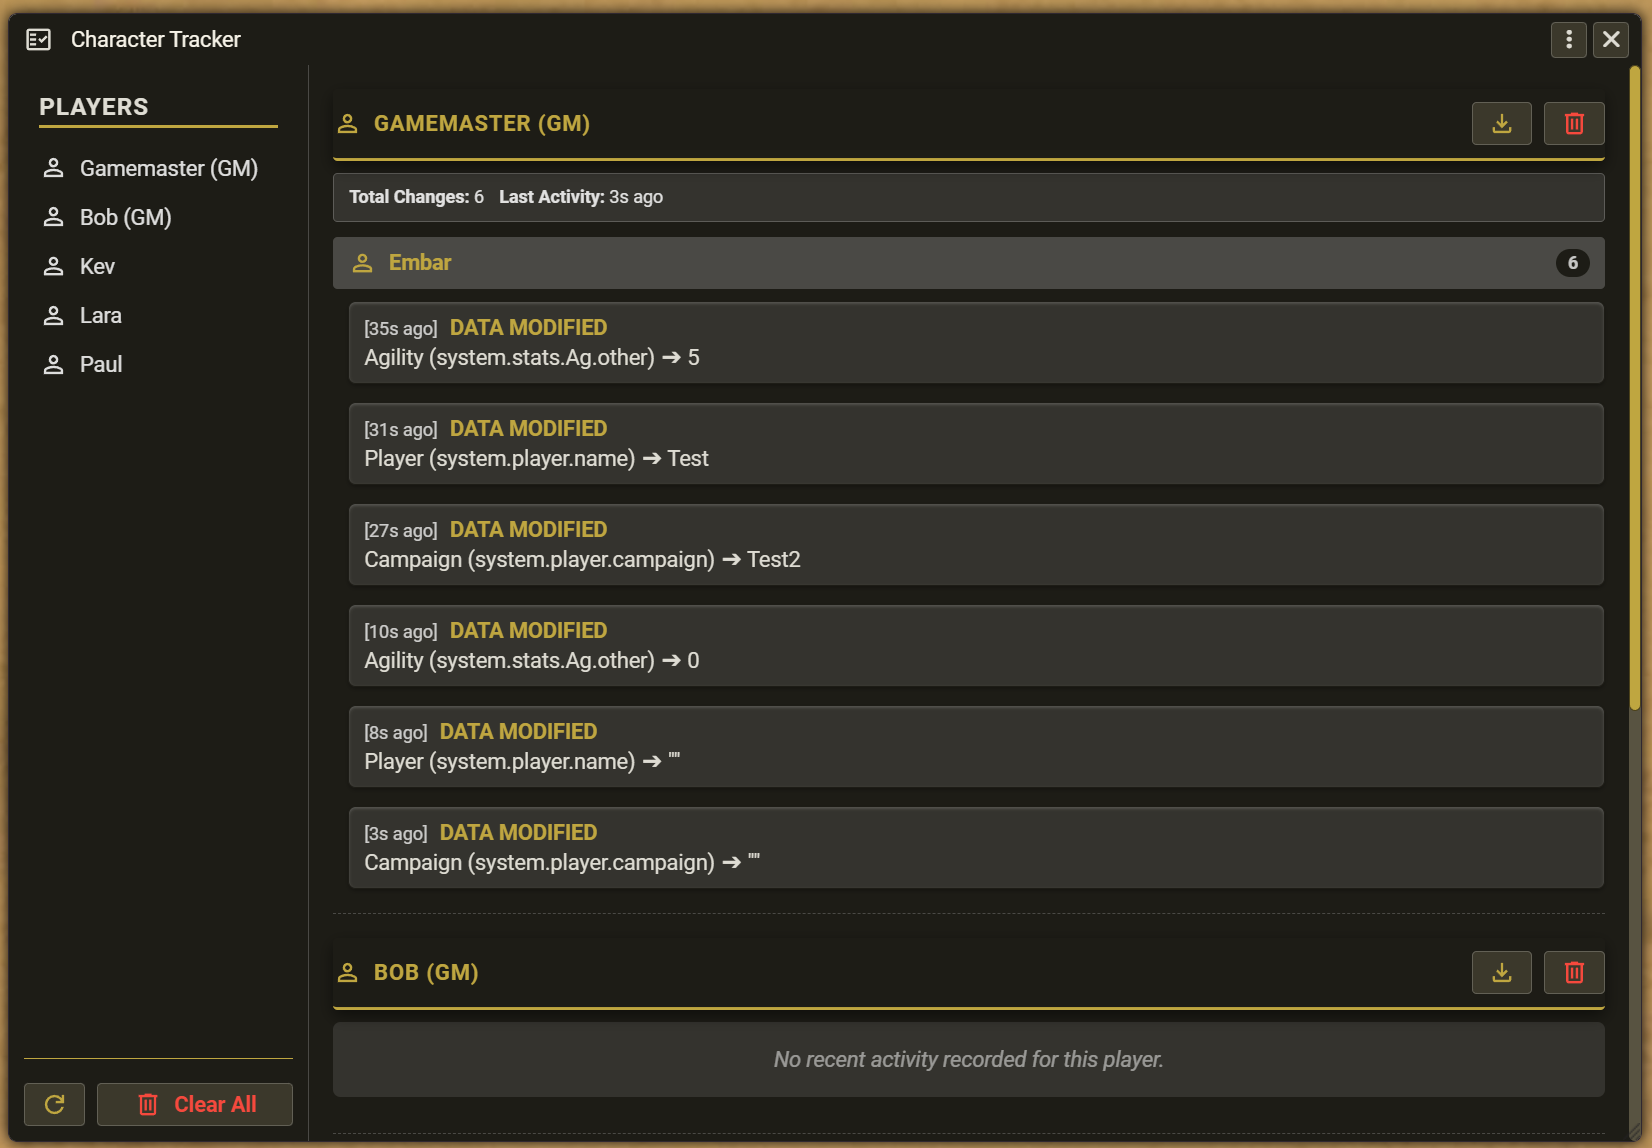
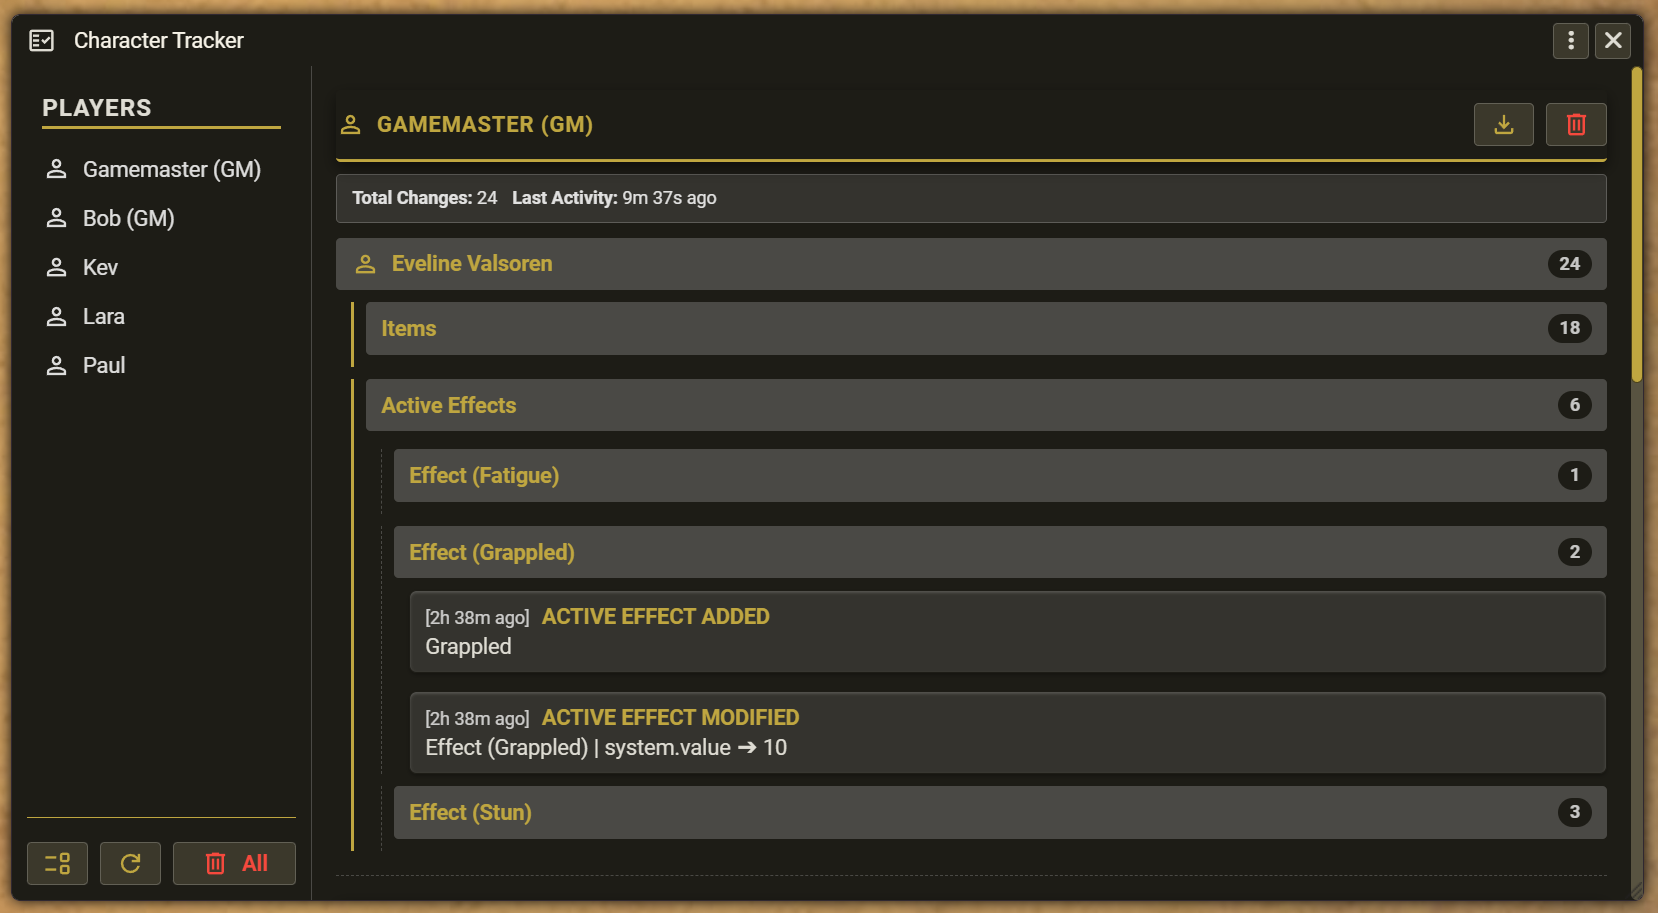
Improvement: add categorical grouping
Docs: update version and readme files

Changed region(s): [[0.0, 0.0, 1.0, 1.0]]

diff --git a/src/ui/AuditLogApp.js b/src/ui/AuditLogApp.js
@@ -10,6 +10,8 @@ import { SystemMapper } from "../systems/SystemMapper.js";
 const { ApplicationV2, HandlebarsApplicationMixin, DialogV2 } = foundry.applications.api;
 
 export class AuditLogApp extends HandlebarsApplicationMixin(ApplicationV2) {
+    #viewMode = "chronological"; // Tracks the active UI state
+
     static DEFAULT_OPTIONS = {
         id: "character-tracker-app",
         classes: ["character-tracker-window"],
@@ -29,6 +31,7 @@ export class AuditLogApp extends HandlebarsApplicationMixin(ApplicationV2) {
             exportPlayer: AuditLogApp.#handleExportPlayer,
             scrollToPlayer: AuditLogApp.#handleScrollToPlayer,
             refreshLog: AuditLogApp.#handleRefreshLog,
+            toggleView: AuditLogApp.#handleToggleView,
         },
     };
 
@@ -43,7 +46,12 @@ export class AuditLogApp extends HandlebarsApplicationMixin(ApplicationV2) {
      */
     async _prepareContext(options) {
         const context = await super._prepareContext(options);
-        context.players = this.#buildPlayerContext();
+
+        // Destructure the newly returned object from the formatting loop
+        const viewData = this.#buildPlayerContext();
+        context.players = viewData.players;
+        context.isCategorical = viewData.isCategorical;
+
         return context;
     }
 
@@ -176,9 +184,85 @@ export class AuditLogApp extends HandlebarsApplicationMixin(ApplicationV2) {
         contextArray.forEach((player) => {
             player.characters = Array.from(player.charactersMap.values());
             delete player.charactersMap;
+
+            // Apply categorical grouping if the view mode is active
+            if (this.#viewMode === "categorical") {
+                player.characters.forEach((char) => {
+                    char.categories = this.#buildCategoricalView(char.logs);
+                });
+            }
         });
 
-        return contextArray;
+        return {
+            players: contextArray,
+            isCategorical: this.#viewMode === "categorical",
+        };
+    }
+
+    /**
+     * Sorts a flat array of character logs into categorical buckets and groups by entity.
+     * @param {Array<object>} logs - The chronological log array.
+     * @returns {object} - The grouped categorical structure including action counts.
+     */
+    #buildCategoricalView(logs) {
+        const buckets = { core: new Map(), items: new Map(), effects: new Map() };
+        const counts = { core: 0, items: 0, effects: 0 };
+
+        logs.forEach((log) => {
+            let entityName = "Unknown";
+            let targetMap = null;
+            let targetCountKey = null;
+
+            if (log.action === "Data Modified") {
+                targetMap = buckets.core;
+                targetCountKey = "core";
+                entityName = log.detail.split(" ➔ ")[0];
+            } else if (log.action.includes("Item")) {
+                targetMap = buckets.items;
+                targetCountKey = "items";
+
+                if (log.action === "Item Modified") {
+                    entityName = log.detail.split(" | ")[0];
+                } else {
+                    const parts = log.detail.split(" ➔ ");
+                    entityName = parts.length === 2 ? `${parts[0]} (${parts[1]})` : log.detail;
+                }
+            } else if (log.action.includes("Effect")) {
+                targetMap = buckets.effects;
+                targetCountKey = "effects";
+
+                if (log.action === "Active Effect Modified") {
+                    entityName = log.detail.split(" | ")[0];
+                } else {
+                    entityName = `Effect (${log.detail})`;
+                }
+            }
+
+            if (!targetMap) return;
+
+            // Increment the total action count for this specific category
+            counts[targetCountKey]++;
+
+            // FALLBACK LOGIC: Use the saved ID to prevent identical name collisions.
+            // If it is a v1.0.0 legacy log (or core data), fallback to the string name.
+            const groupKey = log.entityId || entityName;
+
+            // Group the log under the highly specific unique key
+            if (!targetMap.has(groupKey)) {
+                targetMap.set(groupKey, { name: entityName, logs: [] });
+            }
+            targetMap.get(groupKey).logs.push(log);
+        });
+
+        // Return flat, alphabetically sorted arrays and their respective total action counts
+        return {
+            core: Array.from(buckets.core.values()).sort((a, b) => a.name.localeCompare(b.name)),
+            coreCount: counts.core,
+            items: Array.from(buckets.items.values()).sort((a, b) => a.name.localeCompare(b.name)),
+            itemsCount: counts.items,
+            effects: Array.from(buckets.effects.values()).sort((a, b) => a.name.localeCompare(b.name)),
+            effectsCount: counts.effects,
+        };
     }
 
     /**
@@ -242,6 +326,14 @@ export class AuditLogApp extends HandlebarsApplicationMixin(ApplicationV2) {
      * Action handler: Manually recalculates state and refreshes the application UI.
      */
     static async #handleRefreshLog(event, target) {
+        await this.render({ force: false });
+    }
+
+    /**
+     * Action handler: Toggles between chronological and categorical views.
+     */
+    static async #handleToggleView(event, target) {
+        this.#viewMode = this.#viewMode === "chronological" ? "categorical" : "chronological";
         await this.render({ force: false });
     }
 }

diff --git a/styles/character-tracker.css b/styles/character-tracker.css
@@ -24,6 +24,7 @@
 .character-tracker-icon.delete   { -webkit-mask-image: url('../icons/delete.svg'); mask-image: url('../icons/delete.svg'); }
 .character-tracker-icon.download { -webkit-mask-image: url('../icons/download.svg'); mask-image: url('../icons/download.svg'); }
 .character-tracker-icon.refresh { -webkit-mask-image: url('../icons/refresh.svg'); mask-image: url('../icons/refresh.svg'); }
+.character-tracker-icon.filter { -webkit-mask-image: url('../icons/event_list.svg'); mask-image: url('../icons/event_list.svg'); }
 
 /* ===================================================================
    --- ACTOR SIDEBAR ---
@@ -214,8 +215,8 @@
 }
 
 .character-tracker-window .character-tracker-player-section {
-    margin-block-end: 1rem;
-    padding-block-end: 1rem;
+    margin-block-end: var(--filroden-space-l);
+    padding-block-end: var(--filroden-space-l);
     border-block-end: var(--filroden-border-dashed);
 }
 
@@ -434,7 +435,8 @@
 .character-tracker-window .accordion-count {
     background-color: var(--filroden-color-bg-darkest);
     color: var(--filroden-color-text-muted);
-    padding: 2px 8px;
+    padding: var(--filroden-space-xxs) var(--filroden-space-s);
+    border-radius: var(--filroden-radius-small);
     border-radius: var(--filroden-radius-large);
     font-size: var(--filroden-font-size-xs);
 }
@@ -449,4 +451,30 @@
     align-items: baseline;
     gap: var(--filroden-space-s);
     margin-block-end: var(--filroden-space-xxs);
+}
+
+/* --- CATEGORICAL NESTING --- */
+.character-tracker-window .character-tracker-categorical-view {
+    display: flex;
+    flex-direction: column;
+    gap: var(--filroden-space-s);
+    padding-inline-start: var(--filroden-space-m);
+}
+
+.character-tracker-window .sub-accordion {
+    border-inline-start: 2px solid var(--filroden-color-text-accent);
+    padding-inline-start: var(--filroden-space-s);
+}
+
+.character-tracker-window .entity-accordion {
+    margin-inline-start: var(--filroden-space-m);
+    border-inline-start: 1px dashed var(--filroden-color-border);
+    padding-inline-start: var(--filroden-space-s);
+    margin-block-start: var(--filroden-space-xs);
+}
+
+.character-tracker-window .character-tracker-entity-list {
+    display: flex;
+    flex-direction: column;
+    gap: var(--filroden-space-xs);
 }

diff --git a/src/hooks/documentWatchers.js b/src/hooks/documentWatchers.js
@@ -63,6 +63,7 @@ function handleItemCreation(item, options, userId) {
         actorName: item.parent.name,
         action: "Item Added",
         detail: `${itemType} ➔ ${item.name}`,
+        entityId: item.id,
         timestamp: Date.now(),
     };
 
@@ -89,6 +90,7 @@ function handleItemUpdate(item, update, options, userId) {
         actorName: item.parent.name,
         action: "Item Modified",
         detail: `${itemContext} | ${updateDetails.join(" | ")}`,
+        entityId: item.id,
         timestamp: Date.now(),
     };
 
@@ -110,6 +112,7 @@ function handleItemDeletion(item, options, userId) {
         actorName: item.parent.name,
         action: "Item Removed",
         detail: `${itemType} ➔ ${item.name}`,
+        entityId: item.id,
         timestamp: Date.now(),
     };
 
@@ -133,6 +136,7 @@ function handleEffectCreation(effect, options, userId) {
         actorName: effect.parent.name,
         action: "Active Effect Added",
         detail: effect.name,
+        entityId: effect.id,
         timestamp: Date.now(),
     };
 
@@ -155,6 +159,7 @@ function handleEffectUpdate(effect, update, options, userId) {
         actorName: effect.parent.name,
         action: "Active Effect Modified",
         detail: `Effect (${effect.name}) | ${updateDetails.join(" | ")}`,
+        entityId: effect.id,
         timestamp: Date.now(),
     };
 
@@ -174,6 +179,7 @@ function handleEffectDeletion(effect, options, userId) {
         actorName: effect.parent.name,
         action: "Active Effect Removed",
         detail: effect.name,
+        entityId: effect.id,
         timestamp: Date.now(),
     };
 

diff --git a/src/systems/rmu.js b/src/systems/rmu.js
@@ -27,7 +27,7 @@ export const rmuDictionary = {
     "system.appearance.hair": "RMU.Terms.HairColon",
     "system.appearance.eyes": "RMU.Terms.EyesColon",
     "system.appearance.voice": "RMU.Terms.VoiceColon",
-    "system.appearance.conbatZoneFactor": "RMU.Terms.CombatZoneScaleFactor",
+    "system.appearance.combatZoneFactor": "RMU.Terms.CombatZoneScaleFactor",
 
     // Identity
     "system.identity.gender": "RMU.Terms.GenderColon",

diff --git a/README.md b/README.md
@@ -21,8 +21,7 @@ This is a valuable tool for GMs to review character sheet modifications, such as
 For the initial release, the module tracks:
 
 - Modifications to core system data (e.g., stats, health, experience).
-- Adding, removing, or modifying an embedded item.
-- Adding or removing active effects.
+- Adding, removing, or modifying embedded items and active effects.
 
 ## How to use the Character Tracker
 
@@ -34,8 +33,9 @@ For the initial release, the module tracks:
    - The left panel displays a list of active players (and GMs, if tracking is enabled). Click a name to jump to their specific logs.
    - The right panel displays the audit log, nested by player and then by their individual characters. A high-level statistics summary is shown first, followed by a detailed chronological log that can be expanded or collapsed.
 3. **Saving the Log**: You can export individual logs for each player by clicking the `Download` button next to their name.
-4. **Clearing the Log**: You can wipe all logs globally (via the `Delete` button at the bottom of the left panel) or clear individual player logs (via the `Delete` button next to their name).
+4. **Switching the View**: You can switch between a chronological view (ideal for showing what was changing at the same time) and a categorical view (much easier to see what is being changed) by clicking the `Toggle View Mode` button at the bottom of the left panel. The categorical view groups changes by type (items, active effects and core data changes), and then further groups the changes by the specific item, effect or data being changed.
 5. **Refresh the Tracker**: You can see new changes in the interface without closing the window by clicking the `Refresh` button at the bottom of the left panel.
+6. **Clearing the Log**: You can wipe all logs globally (via the `Delete` button at the bottom of the left panel) or clear individual player logs (via the `Delete` button next to their name).
 
 ### System-Specific Dictionaries and Localisation
 
@@ -48,5 +48,4 @@ For the initial release, a simple dictionary has been included for the Rolemaste
 These features are planned for future updates, in no particular order:
 
 - Add dictionaries for other popular systems.
-- Introduce UI filters to isolate specific types of changes within a player's log.
 - Extract deeper, system-specific details from items and active effects.

diff --git a/VERSION.md b/VERSION.md
@@ -2,5 +2,5 @@
 
 | Version | Changes |
 | :--- | :--- |
-| **Version 1.1.0** | **IMPROVEMENTS**<br>- Added tracking of changes made to embedded items (`system`) and active effect (`changes`) properties.<br>- Added a confirmation dialgue to the `Clear All` button to prevent accidents.<br>- Added a timestamp to the export filename. |
+| **Version 1.1.0** | **NEW FEATURES**<br>- **Categorical View:** Added a view toggle to switch between a chronological timeline and a categorical view (grouping changes by entity to easily review the history of a specific stat, item, or effect).<br><br>**IMPROVEMENTS**<br>- Added tracking of modifications made to embedded items (`system`) and active effects (`changes`).<br>- Added a confirmation dialogue to the `Clear All` button to prevent accidental deletions.<br>- Added a timestamp to the export filename. |
 | **Version 1.0.0** | **Initial Release** |
